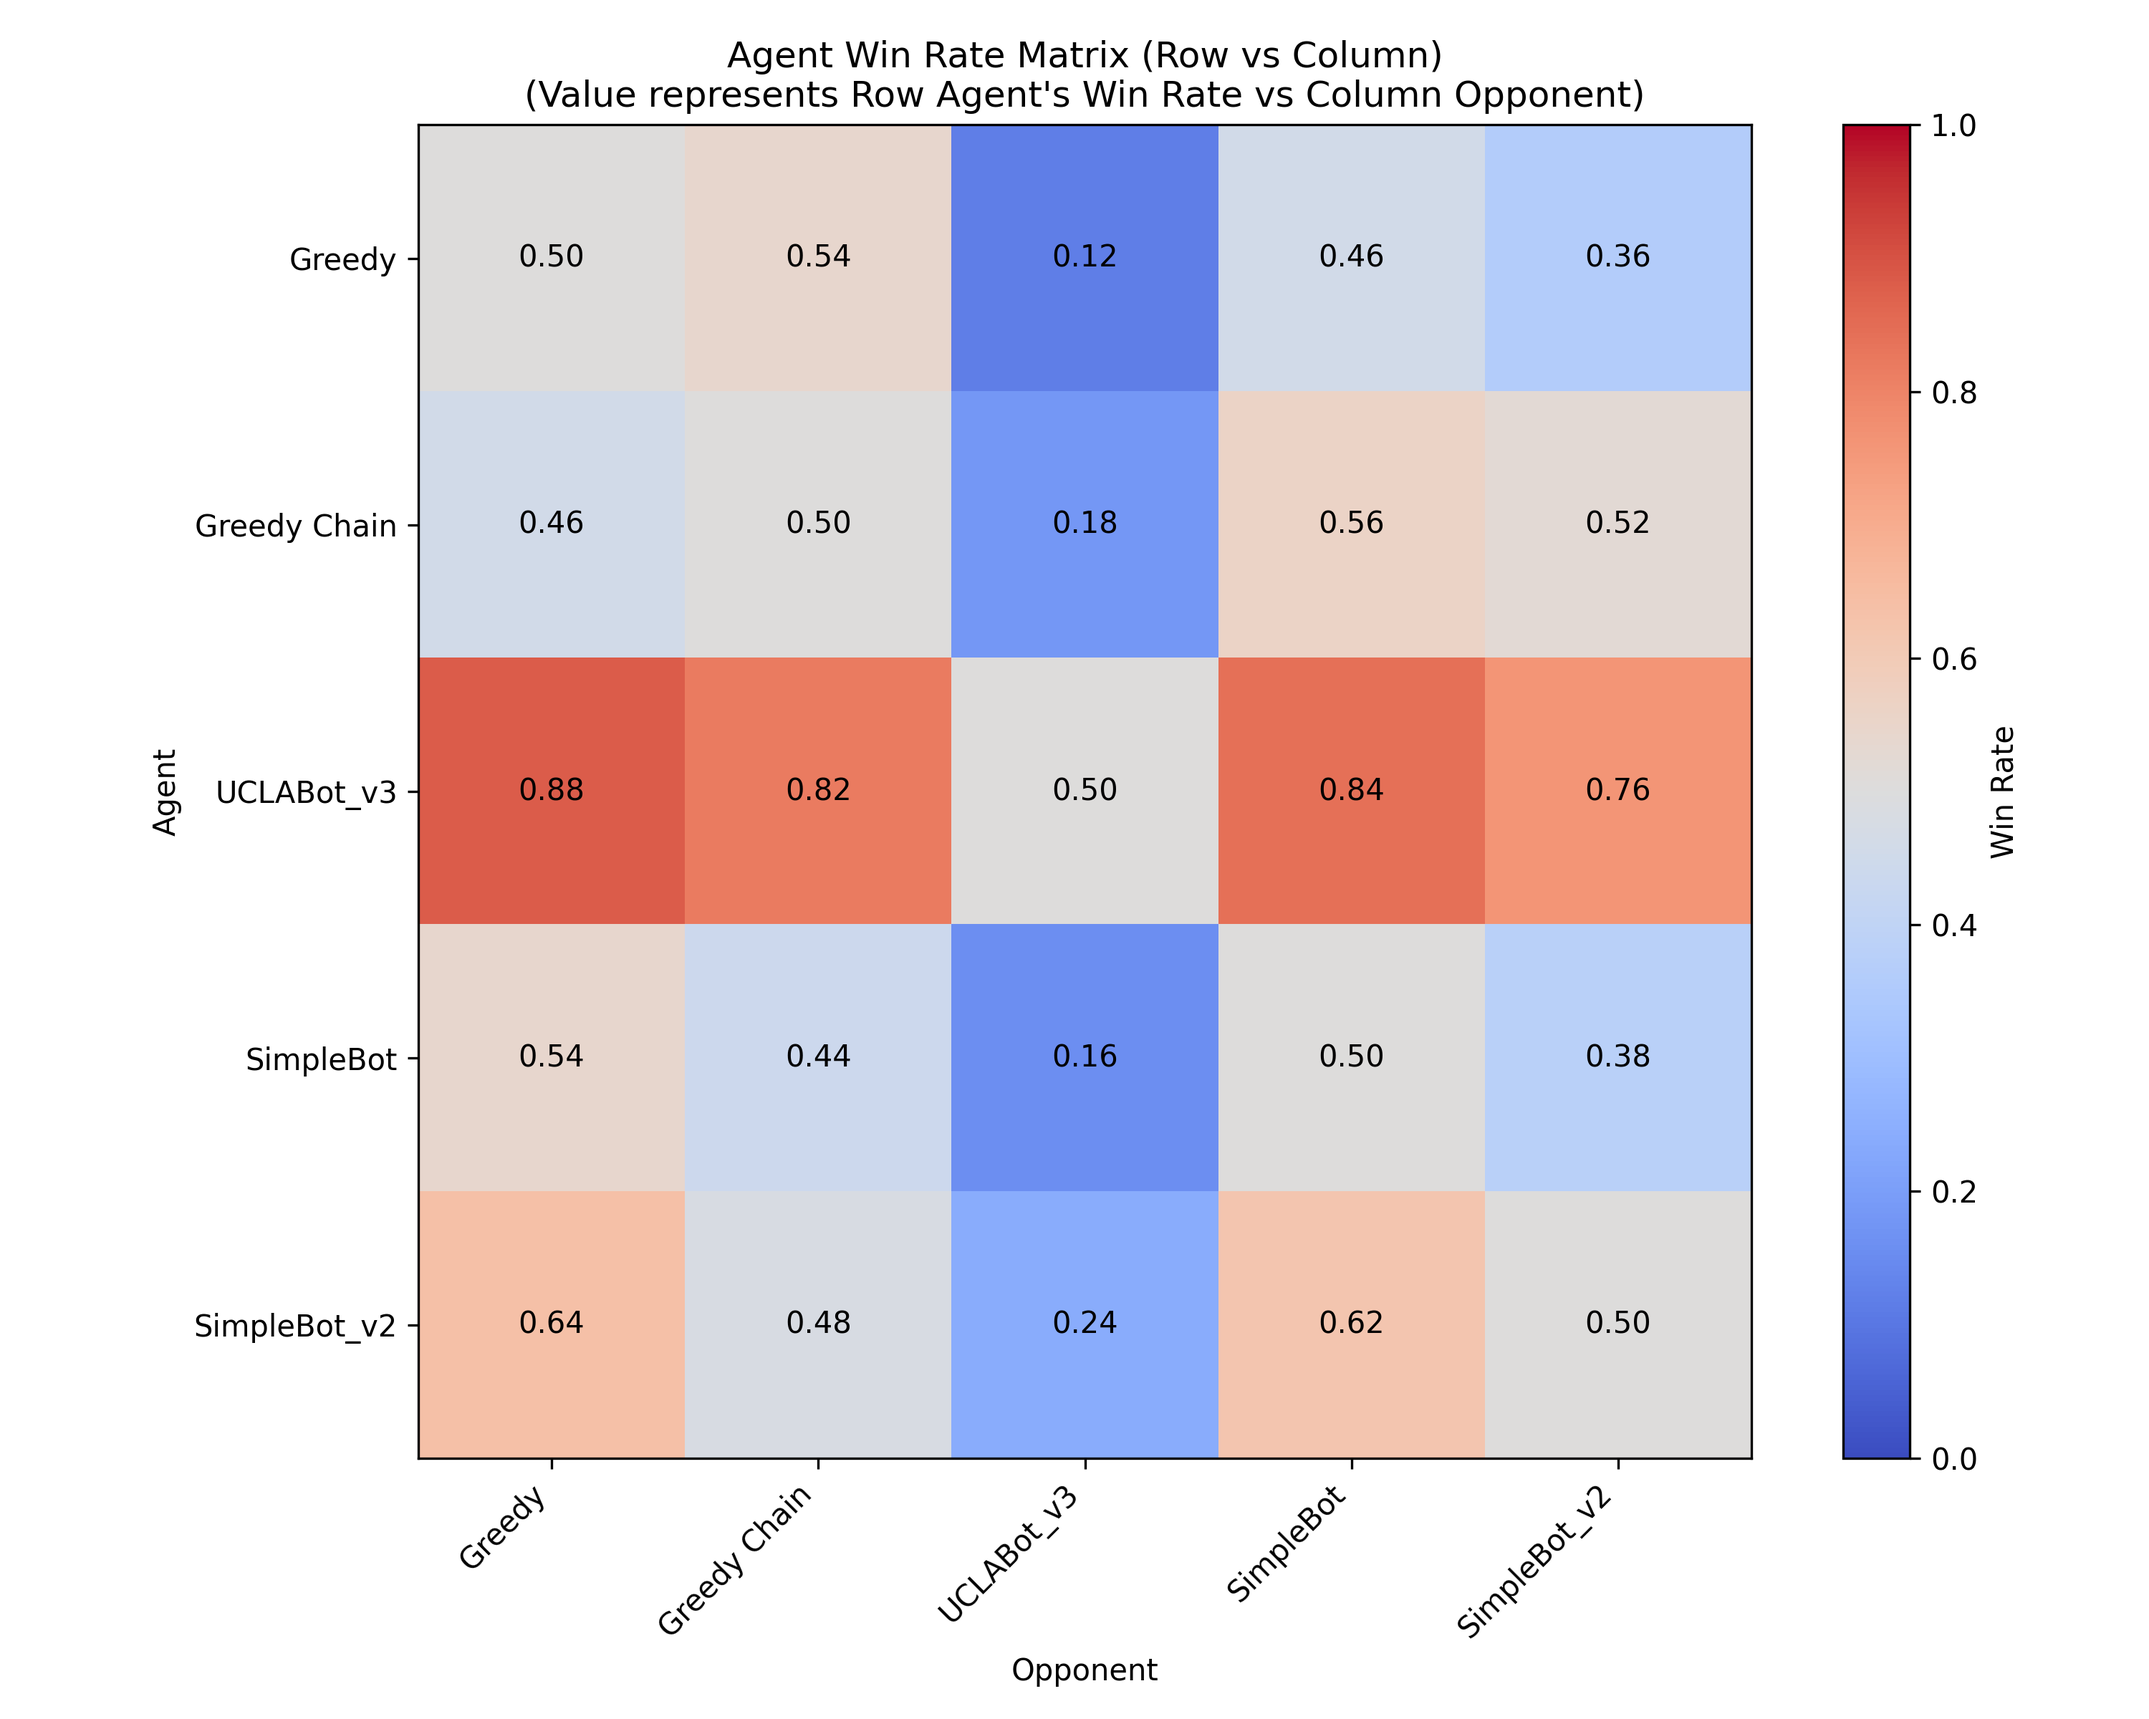
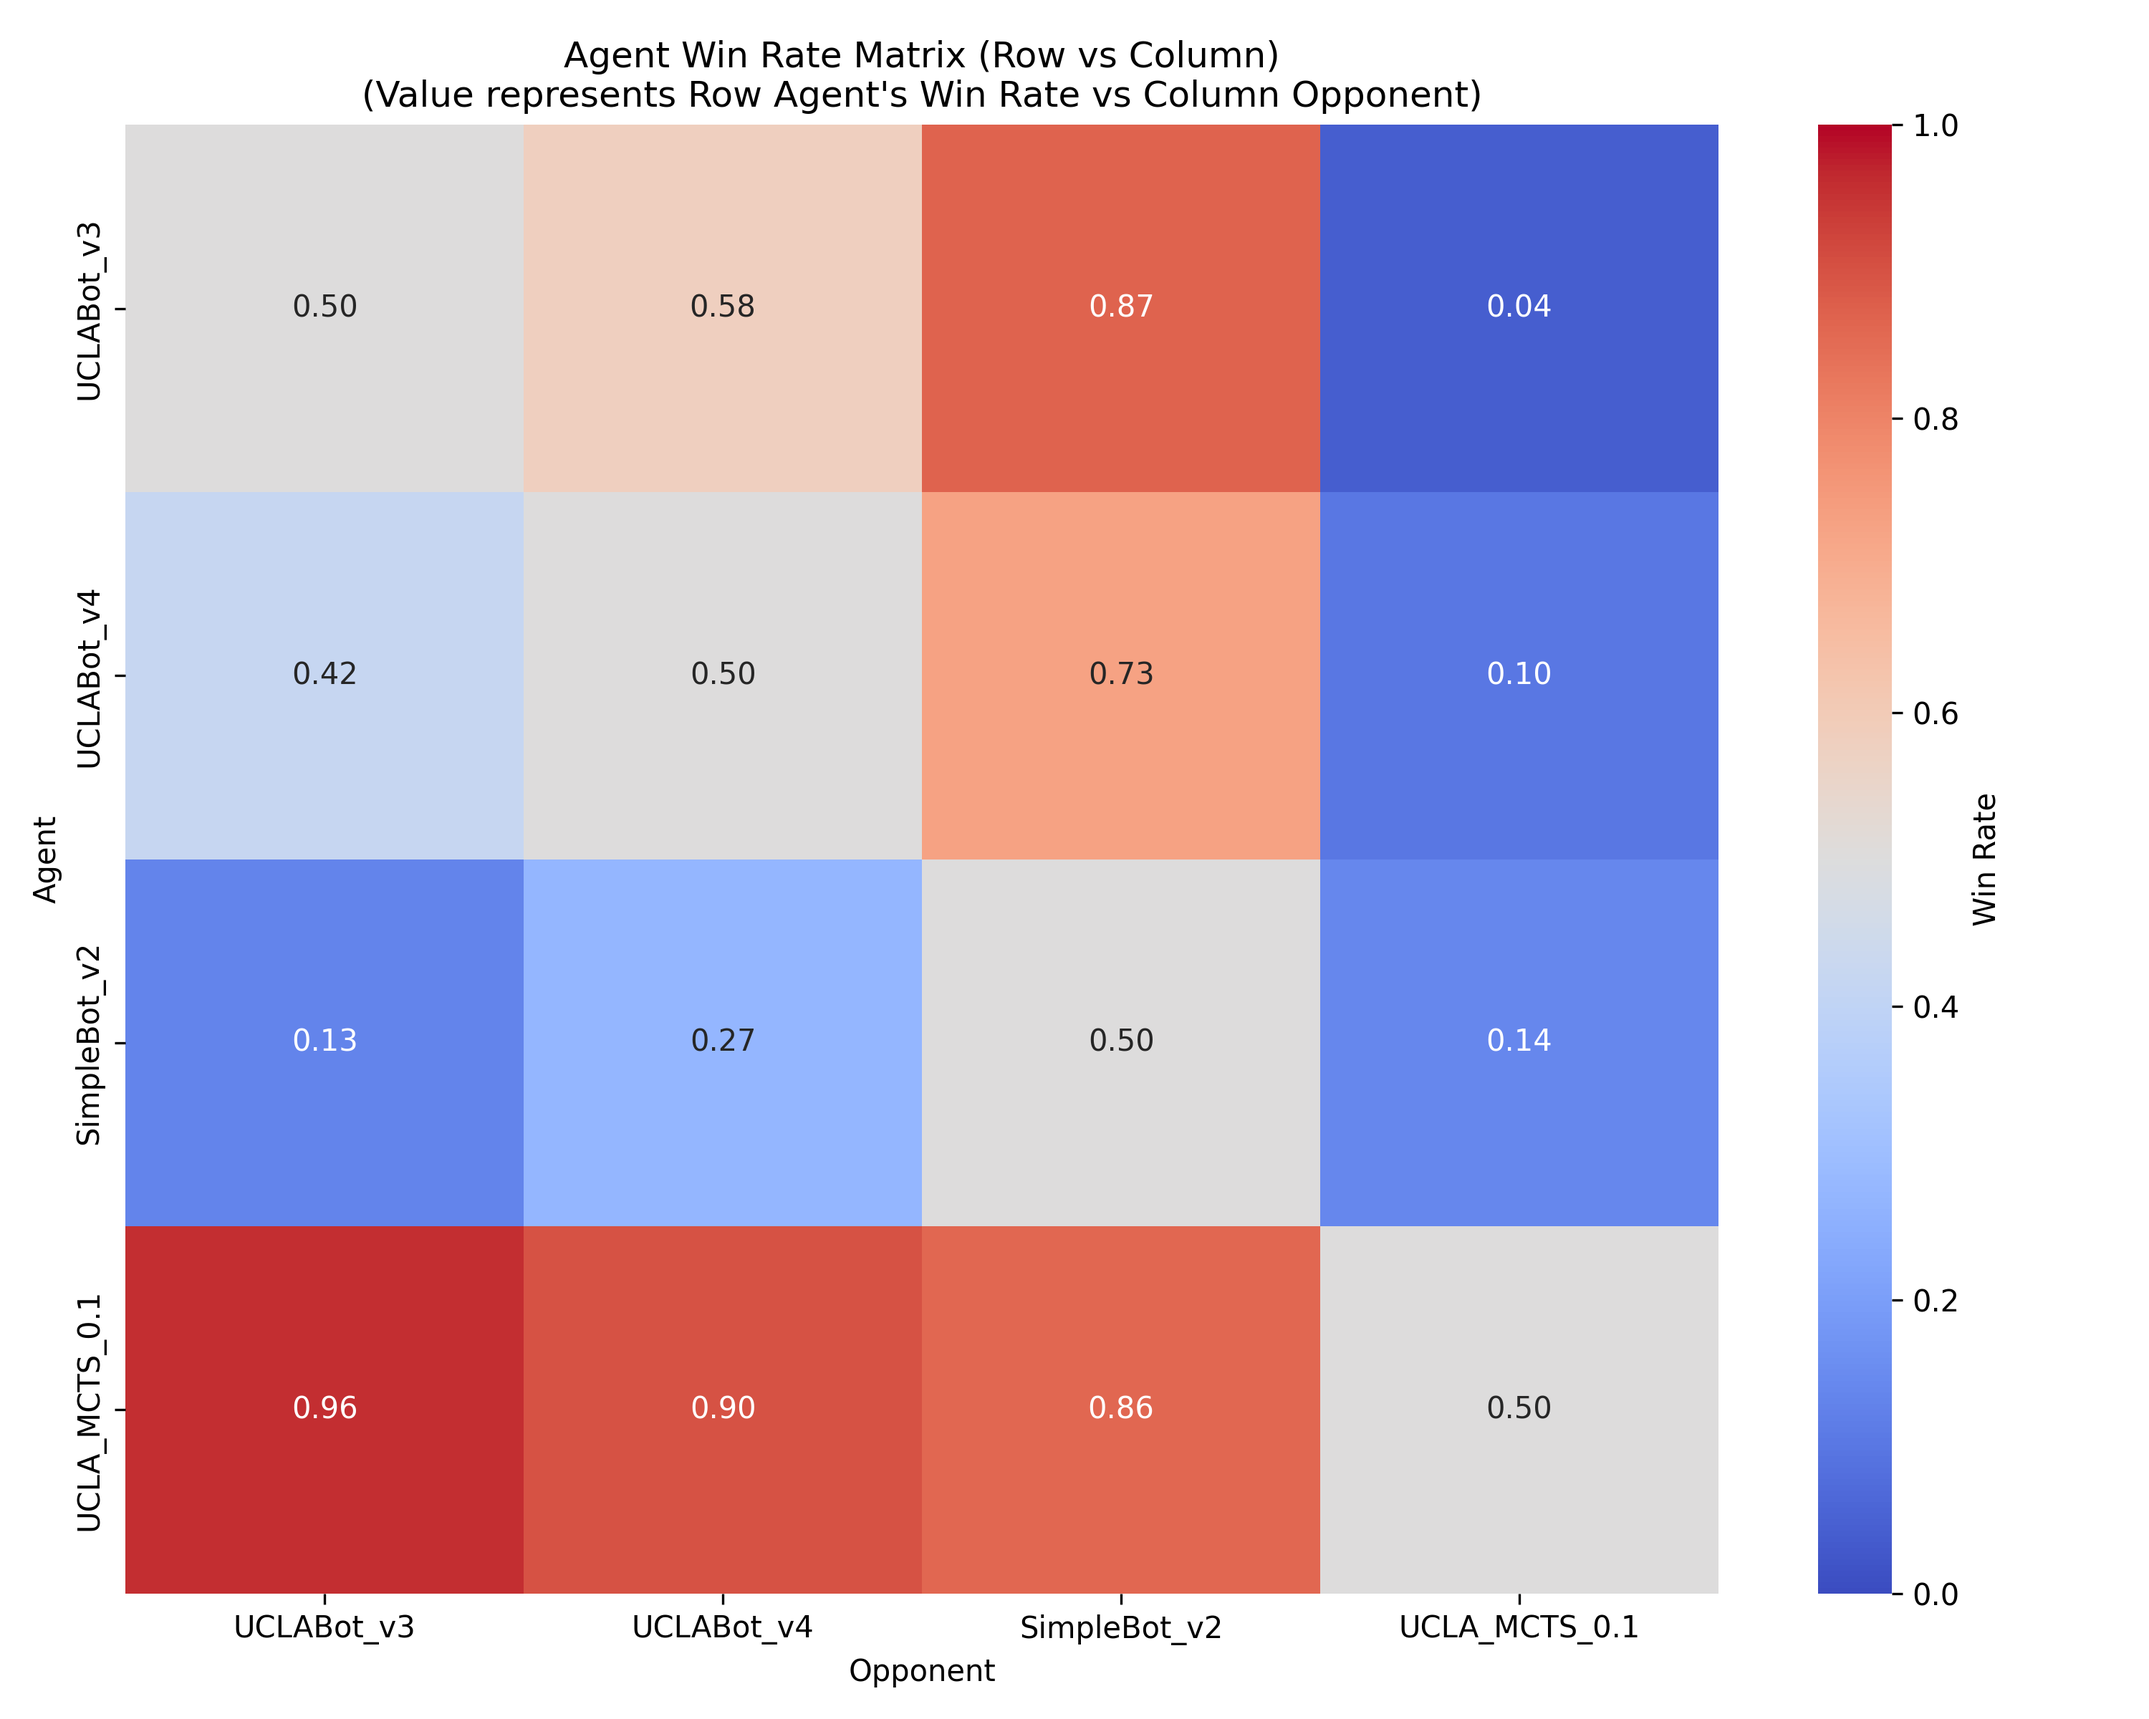
update ucla mcts bot

diff --git a/tournament.py b/tournament.py
@@ -83,18 +83,21 @@ def create_agent(name: str, size: int):
     elif name == "UCLABot_v3":
         from bots.ucla_bot import UCLABot_v3
         return UCLABot_v3(name=name)
+    elif name == "UCLABot_v4":
+        from bots.ucla_bot_v4 import UCLABot_v4
+        return UCLABot_v4(name=name)
     elif name == "UCLAGreedyBot":
         from bots.ucla_bot_heuristic import UCLAGreedyBot
         return UCLAGreedyBot(name=name)
     elif name == "UCLAAlphaBeta":
         from bots.ucla_alpha_beta import UCLAAlphaBeta
         return UCLAAlphaBeta(name=name)
-    elif name == "UCLA_MCTS_100":
-        from bots.ucla_mcts import UCLAMCTS
-        return UCLAMCTS(name=name, n_simulations=100, time_limit=None)
-    elif name == "UCLA_MCTS_200":
-        from bots.ucla_mcts import UCLAMCTS
-        return UCLAMCTS(name=name, n_simulations=200, time_limit=None)
+    elif name == "UCLA_MCTS_0.1":
+        from bots.ucla_mcts import UCLAMCTSBot
+        return UCLAMCTSBot(name=name, time_limit=0.1)
+    elif name == "UCLA_MCTS_0.2":
+        from bots.ucla_mcts import UCLAMCTSBot
+        return UCLAMCTSBot(name=name, time_limit=0.2)
     elif name == "SimpleBot":
         from bots.simple_bot import SimpleBot
         return SimpleBot(name=name)
@@ -116,6 +119,12 @@ def run_single_matchup(args):
     draws = 0
     game_records = []
     
+    a1_moves = 0
+    a2_moves = 0
+    a1_time = 0.0
+    a2_time = 0.0
+    import time
+    
     for i in tqdm(range(num_games), desc=f"Playing {agent1_name} vs {agent2_name}"):
         agent1 = create_agent(agent1_name, size)
         agent2 = create_agent(agent2_name, size)
@@ -128,9 +137,15 @@ def run_single_matchup(args):
         
         while game.is_running():
             if game.current_player == 1:
+                start_t = time.time()
                 move = agent1.get_move(game)
+                a1_time += (time.time() - start_t)
+                a1_moves += 1
             else:
+                start_t = time.time()
                 move = agent2.get_move(game)
+                a2_time += (time.time() - start_t)
+                a2_moves += 1
             
             game_moves.append(int(move))
             dummy_pi = [0.0] * game.N_LINES
@@ -152,7 +167,7 @@ def run_single_matchup(args):
             "policies": game_policies
         })
             
-    return agent1_name, agent2_name, a1_wins, a2_wins, draws, game_records
+    return agent1_name, agent2_name, a1_wins, a2_wins, draws, game_records, a1_moves, a1_time, a2_moves, a2_time
 
 def plot_heatmap(matrix, agent_names, output_path):
     plt.figure(figsize=(10, 8))
@@ -191,8 +206,8 @@ def main():
     # List of agent names to include in the tournament
     agent_names = [
         # "Random", 
-        "Greedy", 
-        "Greedy Chain",
+        # "Greedy", 
+        # "Greedy Chain",
         # "Alpha-Beta (0.1s)", 
         # "Alpha-Beta (0.5s)", 
         # "Alpha-Beta v1 (0.1s)",
@@ -206,12 +221,15 @@ def main():
         # "UCLABot",
         # "UCLABot_v2",
         "UCLABot_v3",
+        # "UCLABot_v4",   
         # "UCLAGreedyBot",
         # "UCLAAlphaBeta",
         # "UCLA_MCTS_100",
         # "UCLA_MCTS_200",
-        "SimpleBot",
-        "SimpleBot_v2"
+        # "SimpleBot",
+        # "SimpleBot_v2",
+        "UCLA_MCTS_0.1",
+        "UCLA_MCTS_0.2",
     ]
     n_agents = len(agent_names)
     
@@ -226,12 +244,15 @@ def main():
     print(f"Starting tournament: {n_agents} agents, size={args.size}x{args.size}, games={args.games} per matchup.")
     print(f"Running on {num_cores} worker processes...")
     
+    agent_moves = {name: 0 for name in agent_names}
+    agent_time = {name: 0.0 for name in agent_names}
+    
     results = []
     with mp.Pool(num_cores) as pool:
         pbar = tqdm(pool.imap_unordered(run_single_matchup, tasks), total=len(tasks), desc="Running Matchups")
         for res in pbar:
             results.append(res)
-            a1_name, a2_name, a1_wins, a2_wins, draws, _ = res
+            a1_name, a2_name, a1_wins, a2_wins, draws, _, _, _, _, _ = res
             a1_wr = (a1_wins + 0.5 * draws) / args.games
             a2_wr = (a2_wins + 0.5 * draws) / args.games
             pbar.set_postfix_str(f"{a1_name} vs {a2_name}: {a1_wr:.1%} vs {a2_wr:.1%} ({a1_wins}W-{a2_wins}L-{draws}D)")
@@ -250,13 +271,15 @@ def main():
     log_path = "game_logs_bot.jsonl"
     print(f"Saving played tournament games to {log_path}...")
     with open(log_path, "a") as f_log:
-        for a1_name, a2_name, a1_wins, a2_wins, draws, game_records in results:
+        for res in results:
+            a1_name, a2_name, a1_wins, a2_wins, draws, game_records, a1_moves, a1_time, a2_moves, a2_time = res
             idx1 = name_to_idx[a1_name]
             idx2 = name_to_idx[a2_name]
             
-            # Save game records to file
-            # for record in game_records:
-            #     f_log.write(json.dumps(record) + '\n')
+            agent_moves[a1_name] += a1_moves
+            agent_time[a1_name] += a1_time
+            agent_moves[a2_name] += a2_moves
+            agent_time[a2_name] += a2_time
             
             # Winrate of Agent 1 against Agent 2
             wr1 = (a1_wins + 0.5 * draws) / args.games
@@ -265,6 +288,15 @@ def main():
             
             winrate_matrix[idx1][idx2] = wr1
             winrate_matrix[idx2][idx1] = wr2
+
+    # Print move speed results to stdout
+    print("\n--- Move Speed Report (moves/second) ---")
+    for name in agent_names:
+        m_count = agent_moves[name]
+        total_t = agent_time[name]
+        mps = m_count / total_t if total_t > 0 else 0.0
+        print(f"{name:<20} | Moves: {m_count:<6} | Total Time: {total_t:<8.3f}s | Moves/Sec: {mps:.2f}")
+    print("-" * 60)
 
     # Print results to stdout
     print("\n--- Winrate Matrix (Row Agent vs Column Opponent) ---")

diff --git a/tournament_vs_web_bot.py b/tournament_vs_web_bot.py
@@ -19,7 +19,8 @@ from bots.alpha_beta import AlphaBetaPlayer
 from bots.mcts_x import MCTSGAgent
 from bots.greedy import GreedyPlayer
 from bots.greedy_improve import GreedyChainPlayer
-from bots.ucla_bot import UCLABot, UCLABot_v2, UCLABot_v3
+from bots.ucla_bot import UCLABot, UCLABot_v2, UCLABot_v3, UCLABot_MCTS
+from bots.ucla_bot_v4 import UCLABot_v4
 from web_gui_game import RandomBot, AlphaZeroAgent
 
 class WebTournament:
@@ -35,9 +36,11 @@ class WebTournament:
             # "AlphaBeta_10s": lambda _: AlphaBetaPlayer(name="AlphaBeta_10s", time_limit=10.0),
             # "UCLABot": lambda _: UCLABot("UCLA JS Bot"),
             # "UCLABot_v2": lambda _: UCLABot_v2("UCLA JS Bot v2"),
-            #"UCLABot_v3": lambda _: UCLABot_v3("UCLA JS Bot v3"),
+            "UCLABot_v4": lambda _: UCLABot_v4("UCLA JS Bot v4"),
+            "UCLABot_v3": lambda _: UCLABot_v3("UCLA JS Bot v3"),
+            "UCLABot_MCTS": lambda _: UCLABot_MCTS("UCLA JS Bot MCTS"),
             # "UCLAGreedyBot": lambda _: __import__('bots.ucla_bot_heuristic', fromlist=['UCLAGreedyBot']).UCLAGreedyBot("UCLA Greedy"),
-            "UCLAAlphaBeta": lambda _: __import__('bots.ucla_alpha_beta', fromlist=['UCLAAlphaBeta']).UCLAAlphaBeta("UCLA AlphaBeta"),
+            # "UCLAAlphaBeta": lambda _: __import__('bots.ucla_alpha_beta', fromlist=['UCLAAlphaBeta']).UCLAAlphaBeta("UCLA AlphaBeta"),
             # "MCTS_1s": lambda _: MCTSGAgent(name="MCTS_1s", time_limit=1),
             # "AlphaZero": lambda _: AlphaZeroAgent("AlphaZero", n_simulations=500),
             # "AlphaZero_1000": lambda _: AlphaZeroAgent("AlphaZero_1000", n_simulations=1000),

diff --git a/codingame_Agent_mcts_ucla_v3.py b/codingame_Agent_mcts_ucla_v3.py
@@ -286,9 +286,7 @@ class MCTS:
         random.shuffle(safe_edge)
         random.shuffle(safe_center)
         random.shuffle(dangerous)
-        if captures or safe_edge or safe_center:
-            return captures + safe_edge + safe_center
-        return dangerous
+        return captures + safe_edge + safe_center + dangerous
 
 
 class UCLABot_v3(BaseAgent):
@@ -297,8 +295,15 @@ class UCLABot_v3(BaseAgent):
         self.move_queue: List[int] = []
 
     def get_move(self, game) -> int:
+        import numpy as _np2
+        if int(_np2.count_nonzero(game.l)) == 0:
+            self.move_queue.clear()
         if self.move_queue:
-            return self.move_queue.pop(0)
+            mv = self.move_queue[0]
+            if game.l[mv] != 0:
+                self.move_queue.clear()
+            else:
+                return self.move_queue.pop(0)
         self.size = game.SIZE
         self.m = self.size
         self.n = self.size

diff --git a/bots/ucla_mcts.py b/bots/ucla_mcts.py
@@ -14,7 +14,15 @@ except ImportError:
     import numpy as _np
     from bots.mcts_heuristic import MCTS, Node
 
-from ucla_bot import UCLABot_v3
+try:
+    from agent_interface import BaseAgent
+except ImportError:
+    from bots.agent_interface import BaseAgent
+
+try:
+    from ucla_bot import UCLABot_v3
+except ImportError:
+    from bots.ucla_bot import UCLABot_v3
 
 class UCLAMCTSEngine(MCTS):
     """
